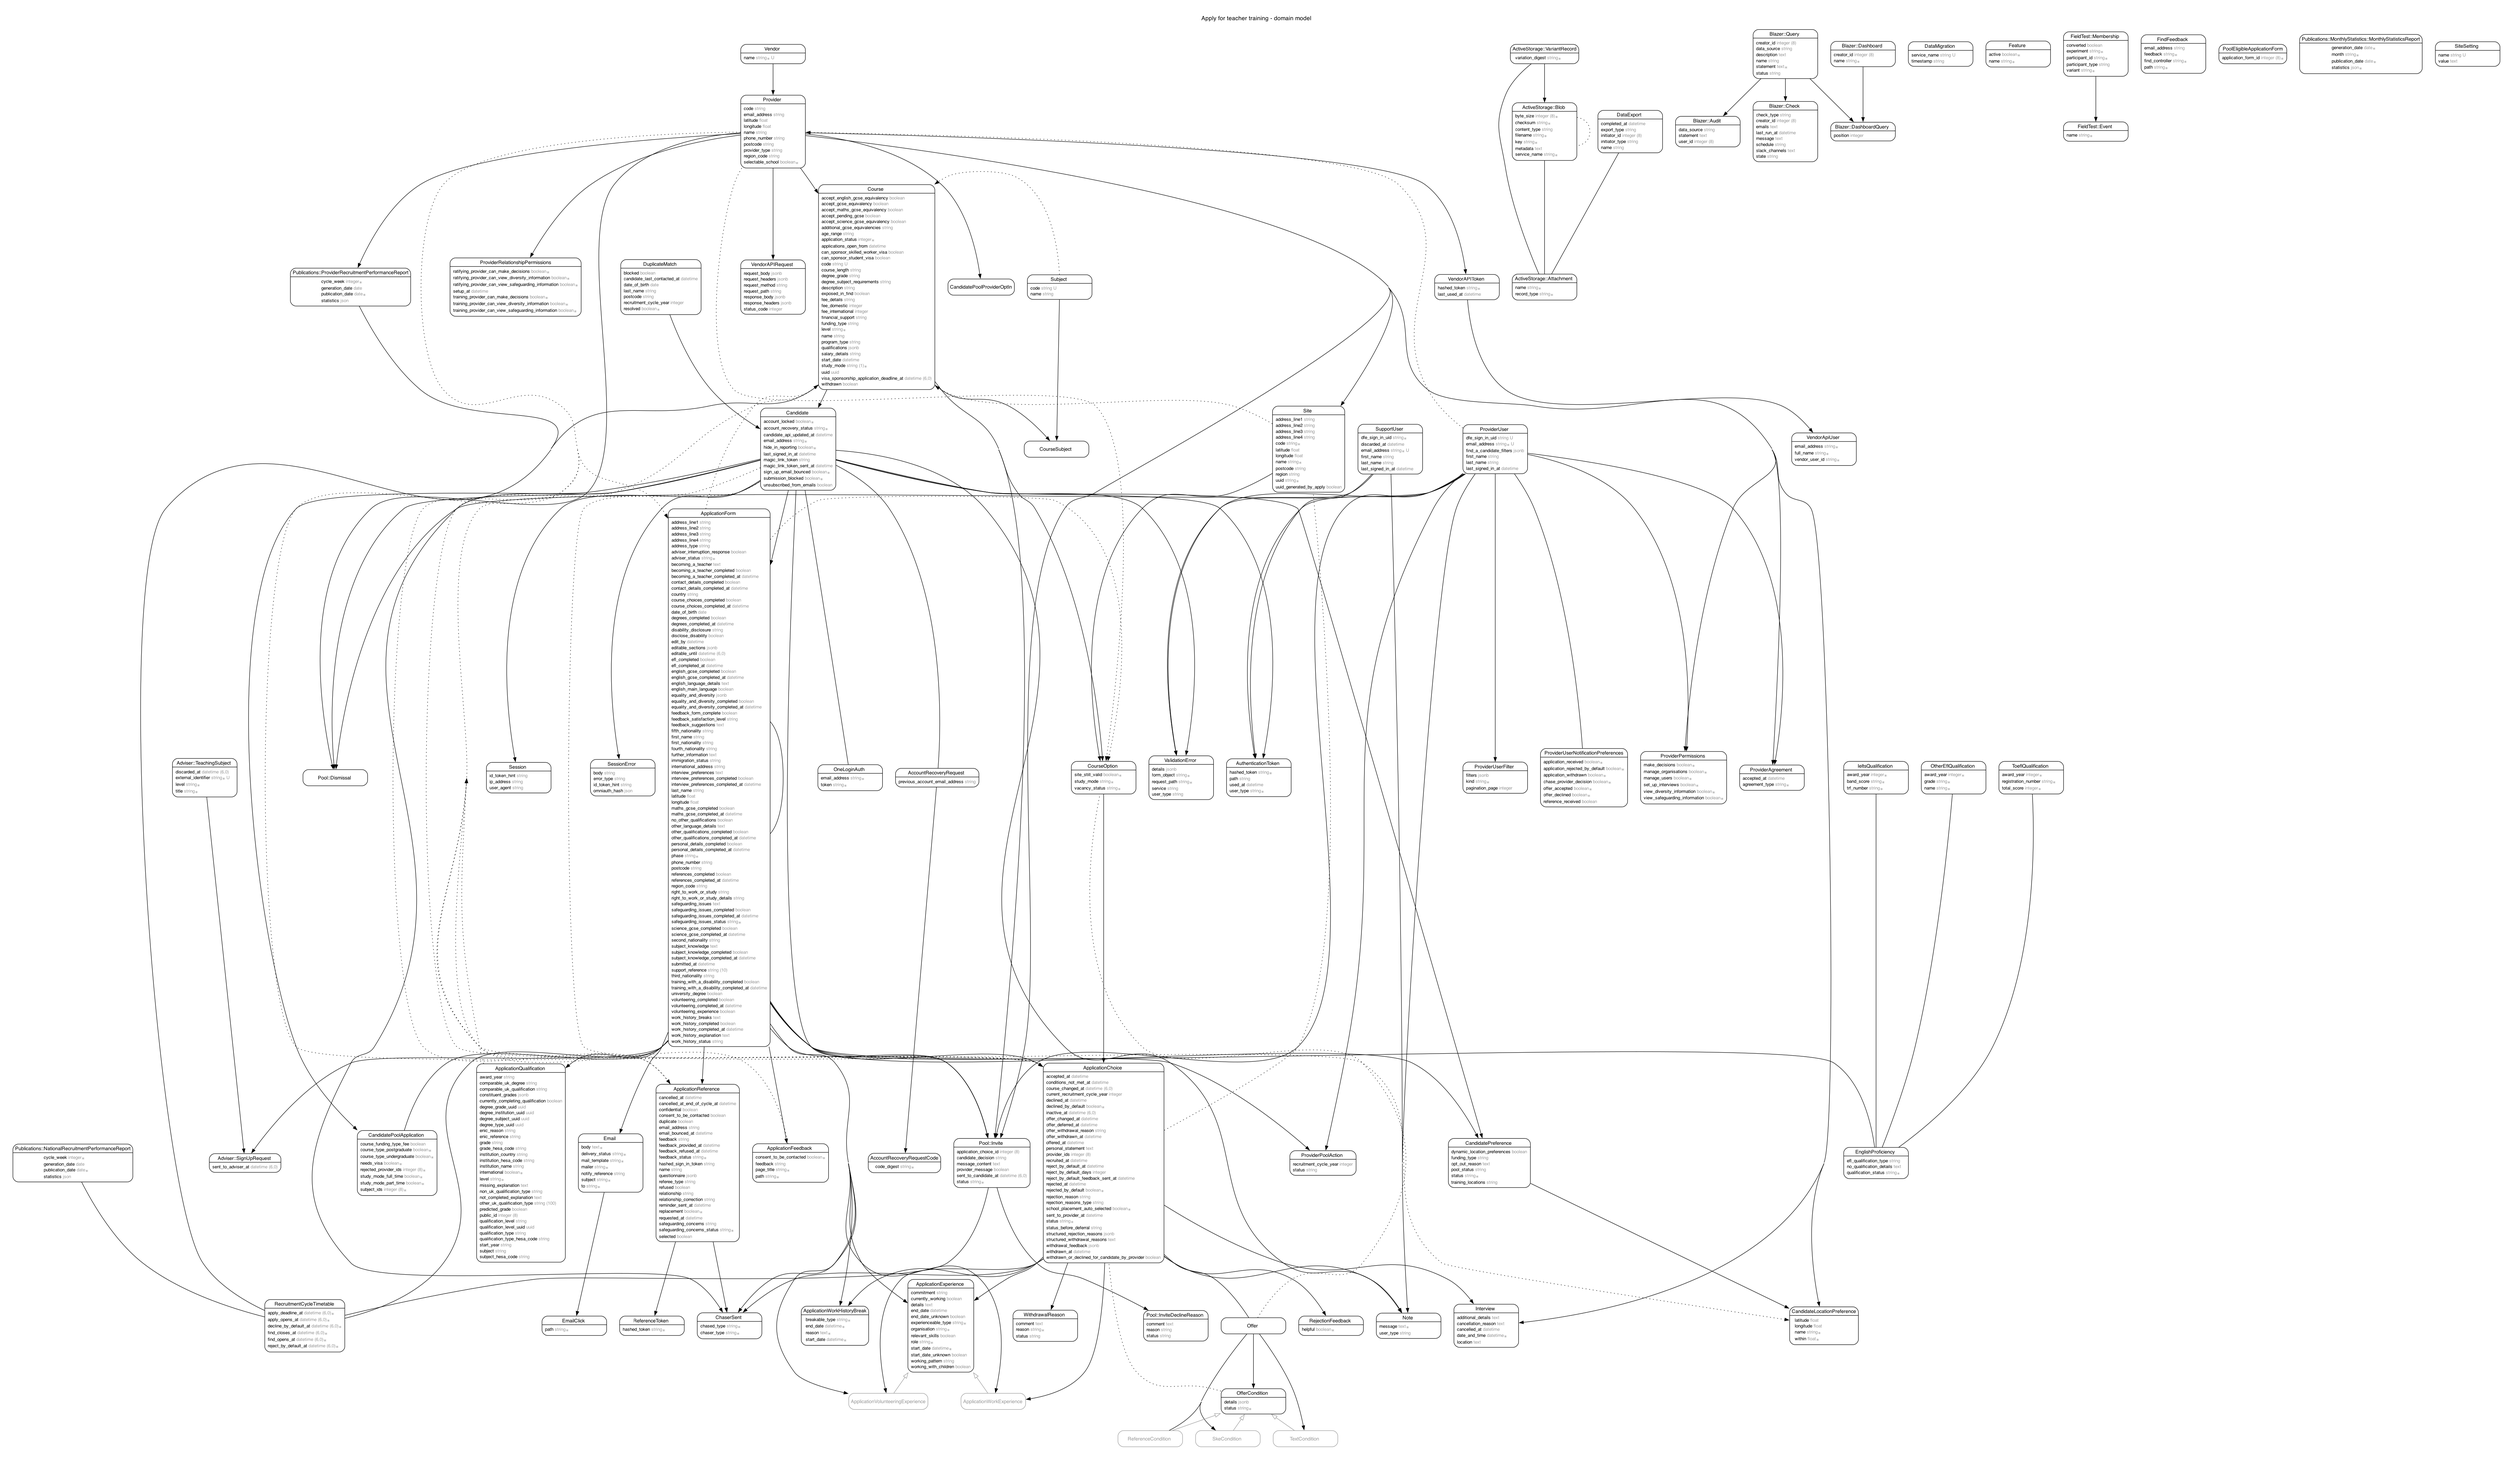
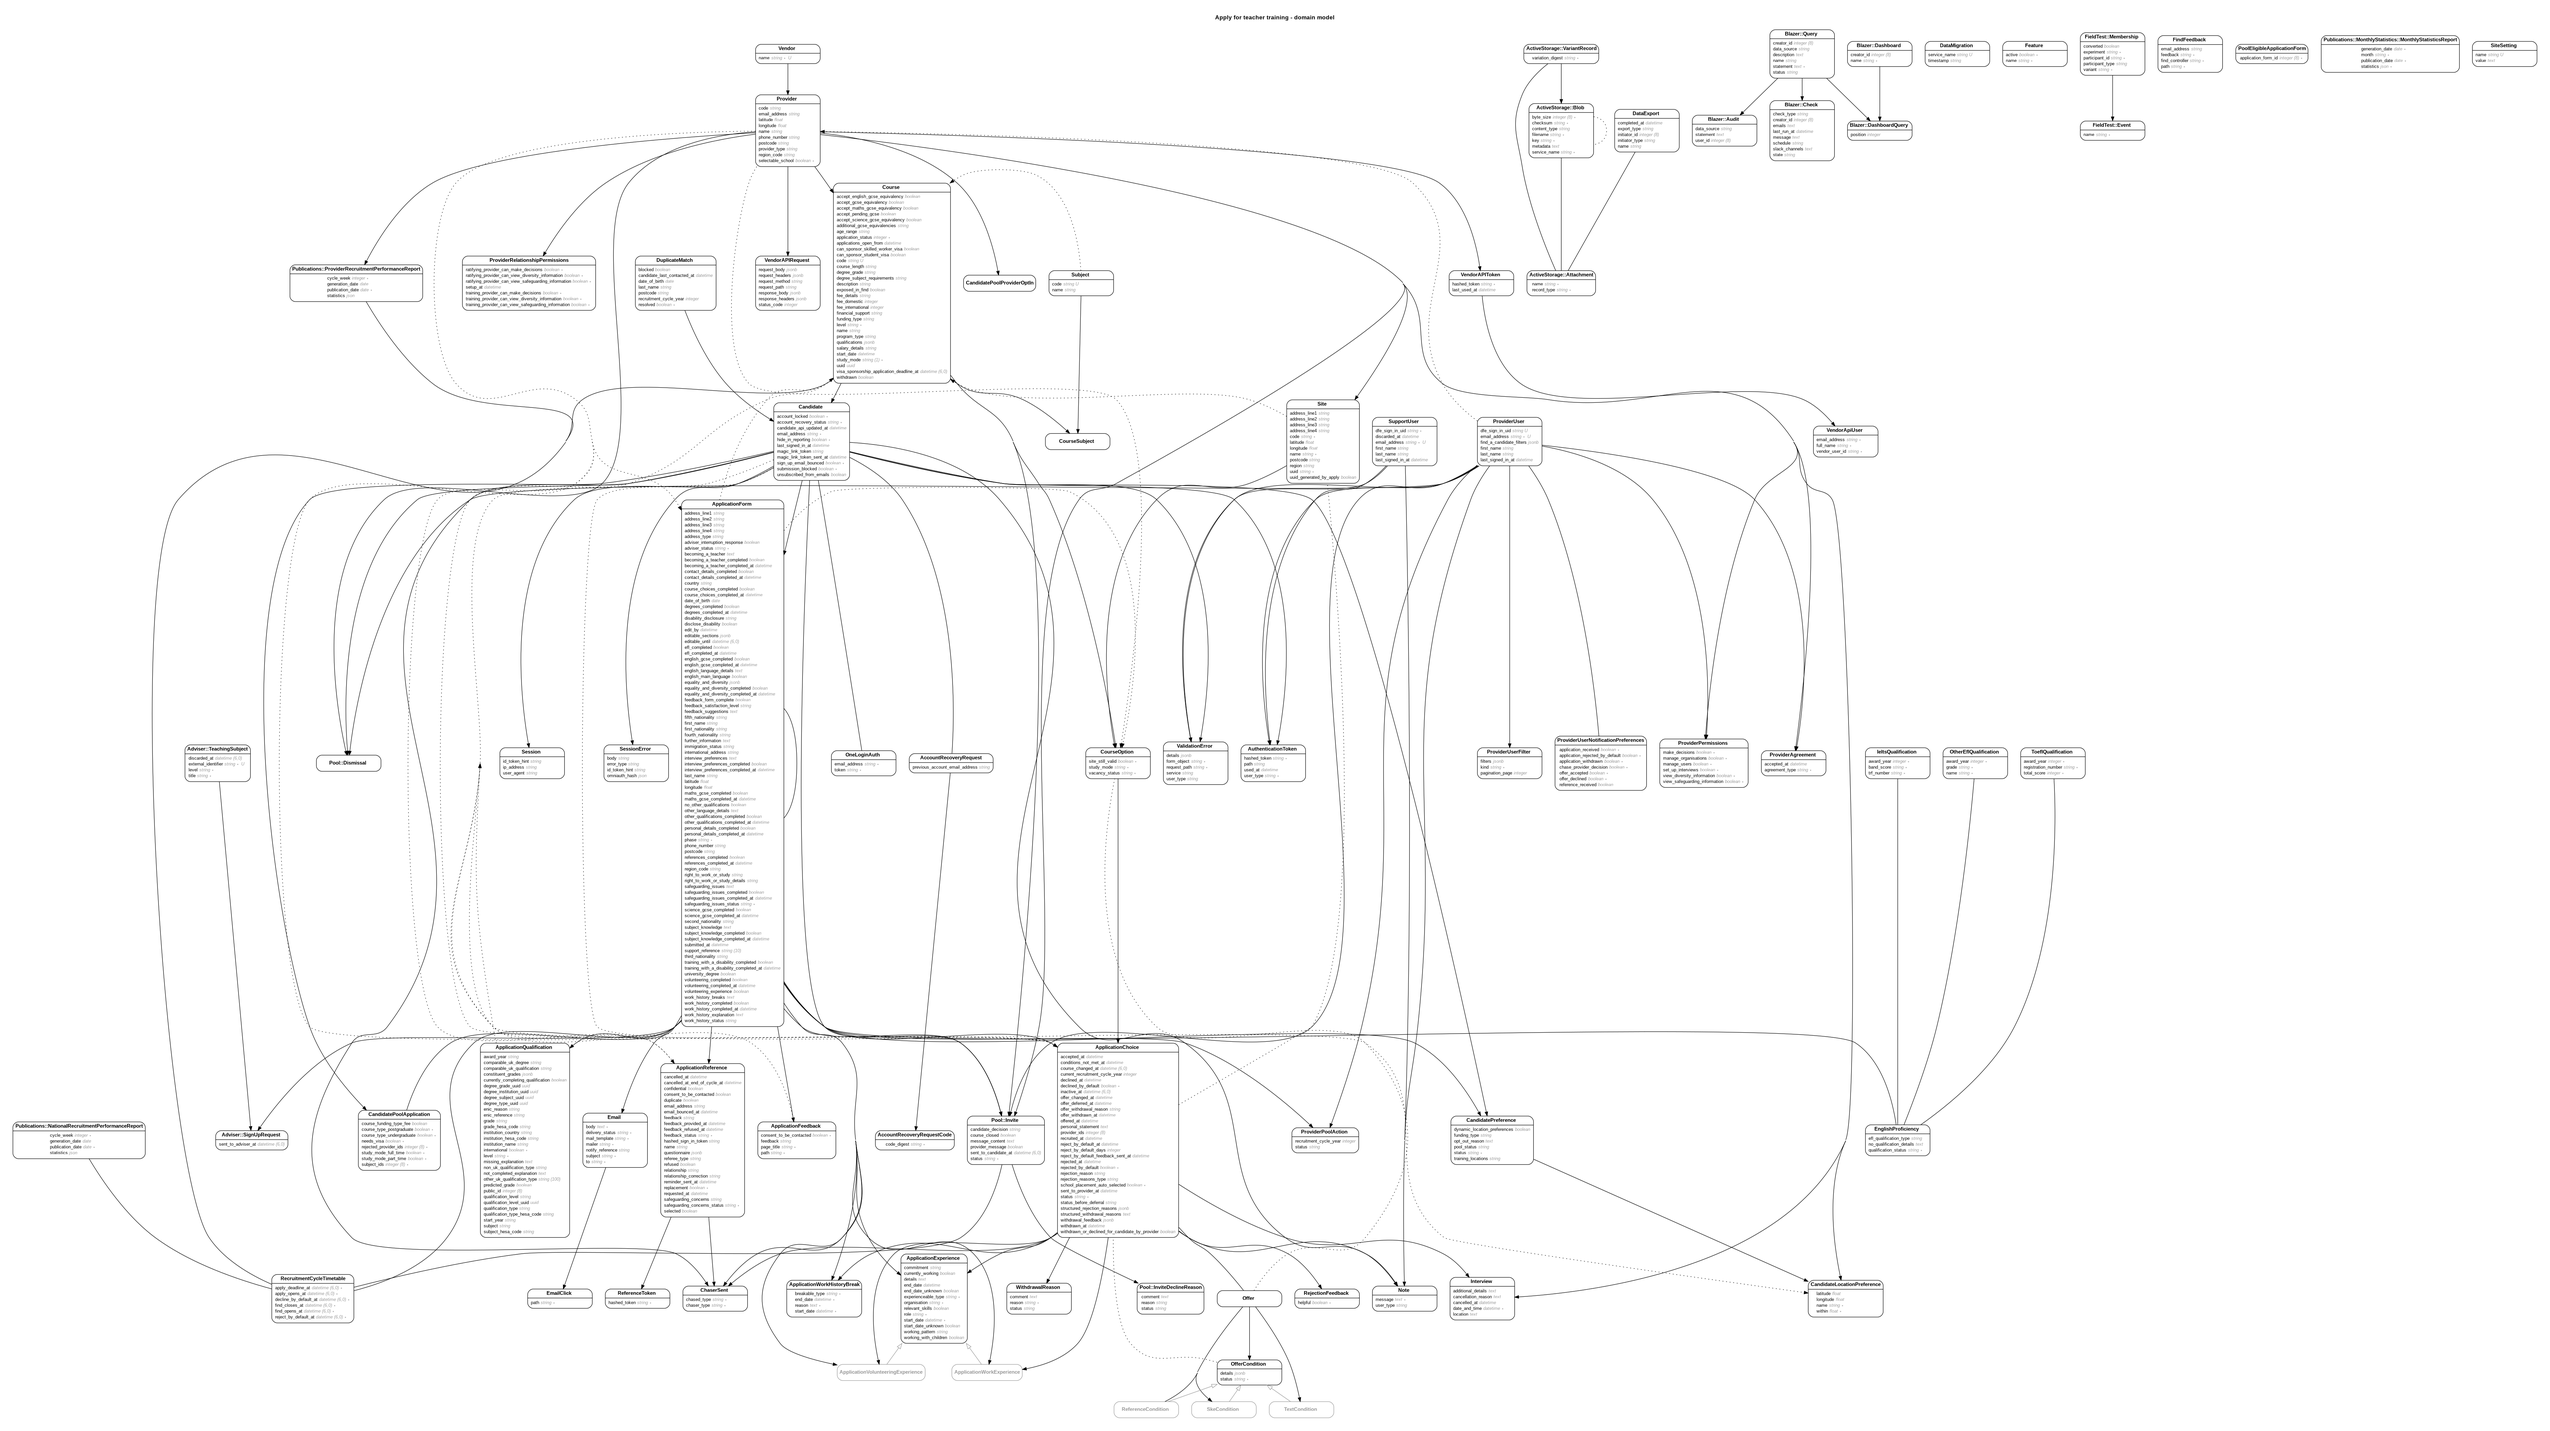
Add course_closed to invite
We need to show the candidate if the course of their invite has closed
or not.

We can store a boolean on the invite table so we don't have to join with
the course on every invite the index page.

This boolean will be kept in sync by the sync with publish job.

diff --git a/db/schema.rb b/db/schema.rb
@@ -10,7 +10,7 @@
 #
 # It's strongly recommended that you check this file into your version control system.
 
-ActiveRecord::Schema[8.0].define(version: 2025_07_22_121740) do
+ActiveRecord::Schema[8.0].define(version: 2025_07_23_085330) do
   create_sequence "qualifications_public_id_seq", start: 120000
 
   # These are extensions that must be enabled in order to support this database
@@ -795,6 +795,7 @@ ActiveRecord::Schema[8.0].define(version: 2025_07_22_121740) do
     t.bigint "application_form_id"
     t.bigint "application_choice_id"
     t.string "candidate_decision", default: "not_responded"
+    t.boolean "course_closed", default: false
     t.index ["application_choice_id"], name: "index_pool_invites_on_application_choice_id"
     t.index ["application_form_id"], name: "index_pool_invites_on_application_form_id"
     t.index ["candidate_id"], name: "index_pool_invites_on_candidate_id"

diff --git a/db/migrate/20250723085330_add_course_closed_to_invite.rb b/db/migrate/20250723085330_add_course_closed_to_invite.rb
@@ -1,0 +1,5 @@
+class AddCourseClosedToInvite < ActiveRecord::Migration[8.0]
+  def change
+    add_column :pool_invites, :course_closed, :boolean, default: false
+  end
+end
